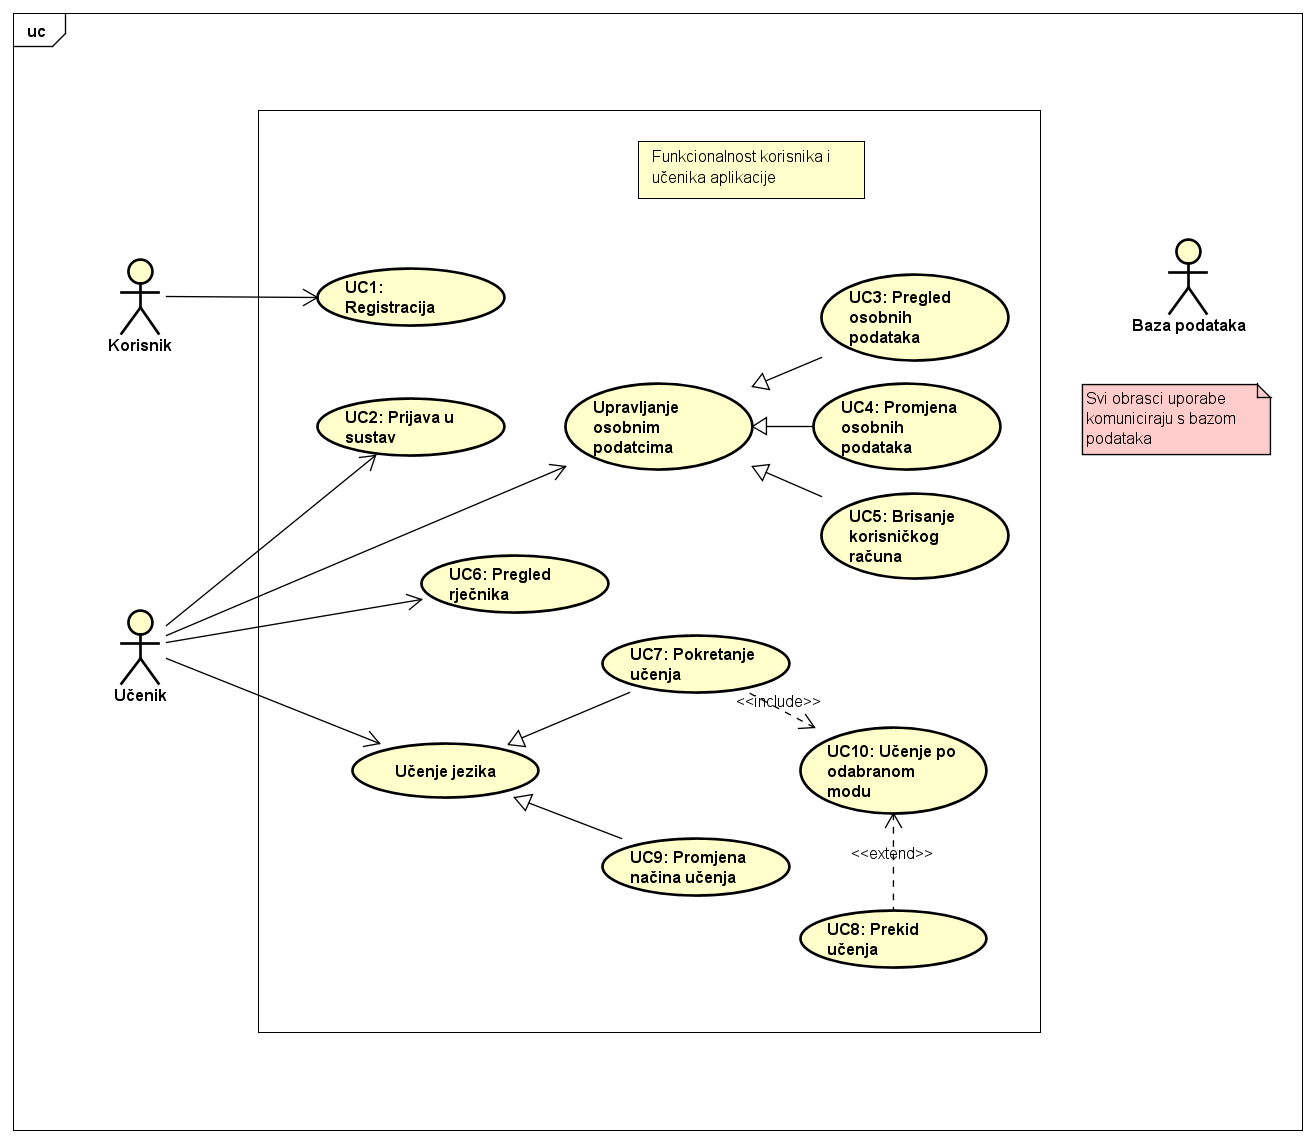
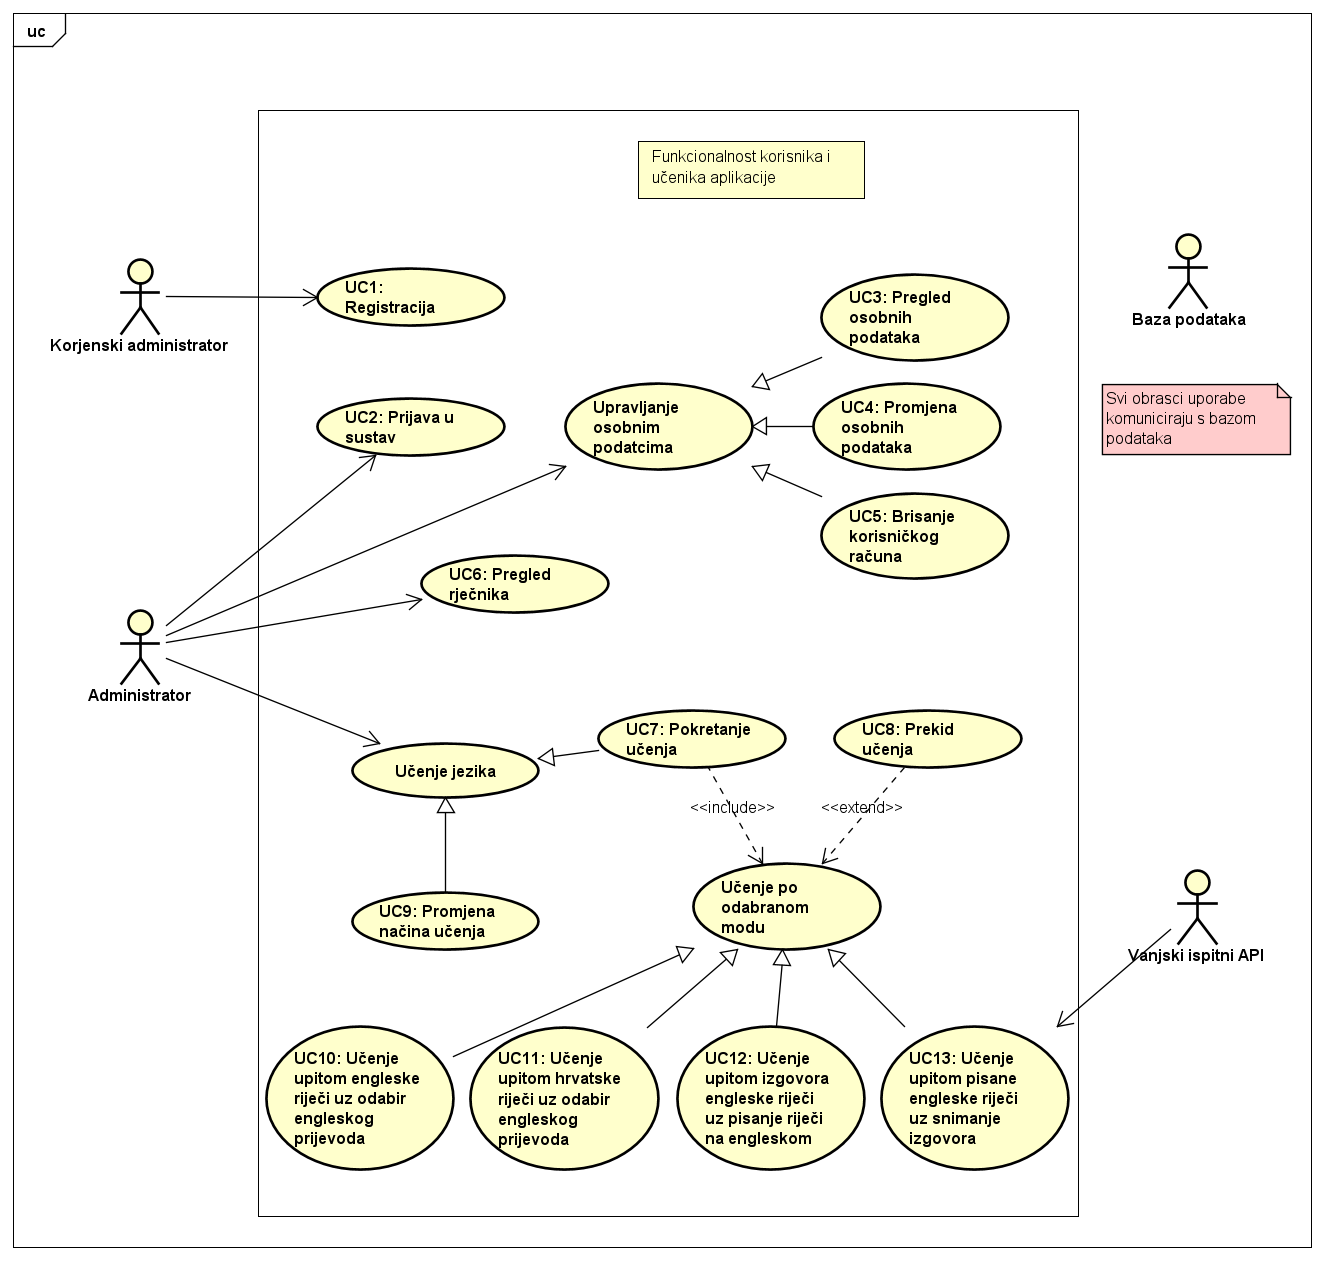
UC10 razdijeljen na 4 dijela, azurirani sati rada, azurirani dijagrami obrasca

diff --git a/Dokumentacija/Specifikacija_programske_potpore.tex b/Dokumentacija/Specifikacija_programske_potpore.tex
@@ -336,22 +336,84 @@
 						
 					\end{packed_item}
 
-					\noindent \underbar{\textbf{UC10 - Učenje po odabranom načinu učenja}}
+					\noindent \underbar{\textbf{UC10 -Učenje upitom engleske riječi uz odabir hrvatskog prijevoda}}
 					\begin{packed_item}
 	
 						\item \textbf{Glavni sudionik: }Učenik
-						\item  \textbf{Cilj:} Učiti jezik na način koji je učenik odabrao
+						\item  \textbf{Cilj:} Učiti prijevod engleske riječi na hrvatski jezik
 						\item  \textbf{Sudionici:} Baza podataka
 						\item  \textbf{Preduvjet:} Učenik je pokrenuo proces učenja
 						\item  \textbf{Opis osnovnog tijeka:}
 						
 						\item[] \begin{packed_enum}
 	
-							\item Učeniku se postavlja pitanje o odabranoj riječi ovisno o načinu učenja, podatcima o učenju i odabranom rječniku
-							\item Učeniku se nudi obrazac za odgovor na postavljeno pitanje
-							\item Učenik obrascem odgovara na postavljeno pitanje
-							\item Učenik potvrđuje svoj odgovor na obrascu
-							\item Baza podataka ažurira podatke učenja učenika određenim rječnikom, jezikom i načinom učenja
+							\item Učeniku se zadaje engleska riječ iz odabranog rječnika i ponuđeni odgovori istoznačne hrvatske riječi
+							\item Učenik odabire smatrani točan odgovor
+							\item Učenik potvrđuje svoj odgovor
+							\item Baza podataka ažurira podatke učenja učenika određenim rječnikom temeljeno na točnosti odgovora
+							\item Ponavlja se prvi korak sve dok učenik ne prekine učenje
+						\end{packed_enum}
+						
+					\end{packed_item}
+
+					\noindent \underbar{\textbf{UC11 - Učenje upitom hrvatske riječi uz odabir engleskog prijevoda}}
+					\begin{packed_item}
+	
+						\item \textbf{Glavni sudionik: }Učenik
+						\item  \textbf{Cilj:} Učiti prijevod hrvatske riječi na engleski jezik
+						\item  \textbf{Sudionici:} Baza podataka
+						\item  \textbf{Preduvjet:} Učenik je pokrenuo proces učenja
+						\item  \textbf{Opis osnovnog tijeka:}
+						
+						\item[] \begin{packed_enum}
+	
+							\item Učeniku se zadaje hrvatska riječ iz odabranog rječnika i ponuđeni odgovori istoznačne engleske riječi
+							\item Učenik odabire smatrani točan odgovor
+							\item Učenik potvrđuje svoj odgovor
+							\item Baza podataka ažurira podatke učenja učenika određenim rječnikom temeljeno na točnosti odgovora
+							\item Ponavlja se prvi korak sve dok učenik ne prekine učenje
+						\end{packed_enum}
+						
+					\end{packed_item}
+
+					\noindent \underbar{\textbf{UC12 - Učenje upitom izgovora engleske riječi uz pisanje riječi na engleskom}}
+					\begin{packed_item}
+	
+						\item \textbf{Glavni sudionik: }Učenik
+						\item  \textbf{Cilj:} Učiti točno pisanje engleskih riječi na temelju izgovora
+						\item  \textbf{Sudionici:} Baza podataka
+						\item  \textbf{Preduvjet:} Učenik je pokrenuo proces učenja
+						\item  \textbf{Opis osnovnog tijeka:}
+						
+						\item[] \begin{packed_enum}
+	
+							\item Učeniku se zadaje glasovni zapis engleske riječi
+							\item Učenik na obrazac upisuje izgovorenu riječ u tekstualnom obliku
+							\item Učenik potvrđuje svoj odgovor
+							\item Baza podataka ažurira podatke učenja učenika određenim rječnikom temeljeno na točnosti odgovora
+							\item Ponavlja se prvi korak sve dok učenik ne prekine učenje
+						\end{packed_enum}
+						
+					\end{packed_item}
+
+					\noindent \underbar{\textbf{UC13 - Učenje upitom pisane engleske riječi uz snimanje izgovora}}
+					\begin{packed_item}
+	
+						\item \textbf{Glavni sudionik: }Učenik
+						\item  \textbf{Cilj:} Učiti izgovor engleskih riječi na temelju tekstualnog oblika riječi
+						\item  \textbf{Sudionici:} Baza podataka, Vanjski ispitni API
+						\item  \textbf{Preduvjet:} Učenik je pokrenuo proces učenja
+						\item  \textbf{Opis osnovnog tijeka:}
+						
+						\item[] \begin{packed_enum}
+	
+							\item Učeniku se zadaje tekstualni zapis engleske riječi
+							\item Učenik odabire opciju za snimanje glasa
+							\item Učenik u mikrofon izgovara zadanu riječ
+							\item Učenik odabire opciju za prestanak snimanja glasa
+							\item Učenik potvrđuje svoj odgovor
+							\item Vanjski ispitni API ocjenjuje točnost izgovora riječi
+							\item Baza podataka ažurira podatke učenja učenika određenim rječnikom temeljeno na točnosti odgovora
 							\item Ponavlja se prvi korak sve dok učenik ne prekine učenje
 						\end{packed_enum}
 
@@ -359,17 +421,18 @@
 						
 						\item[] \begin{packed_item}
 	
-							\item[5.a] Nije moguće spajanje na bazu podataka
+							\item[2.a] Učenik nema detektirani mikrofon
 							\item[] \begin{packed_enum}
 								
-								\item Učenik dobiva informaciju o nedostupnosti baze podataka i prekida se učenje
+								\item Sustav onemogućuje opciju snimanja glasa
+								\item Sustav obavještava učenika nemogućnost snimanja glasa
 								
 							\end{packed_enum}
 						\end{packed_item}
 						
 					\end{packed_item}
 
-					\noindent \underbar{\textbf{UC11 - Dodavanje administratora}}
+					\noindent \underbar{\textbf{UC14 - Dodavanje administratora}}
 					\begin{packed_item}
 	
 						\item \textbf{Glavni sudionik: }Korijenski administrator
@@ -400,7 +463,7 @@
 						
 					\end{packed_item}
 
-					\noindent \underbar{\textbf{UC12 - Stvori rječnik}}
+					\noindent \underbar{\textbf{UC15 - Stvori rječnik}}
 					\begin{packed_item}
 	
 						\item \textbf{Glavni sudionik: }Administrator
@@ -418,7 +481,7 @@
 						
 					\end{packed_item}
 
-					\noindent \underbar{\textbf{UC13 - Dodaj riječ}}
+					\noindent \underbar{\textbf{UC16 - Dodaj riječ}}
 					\begin{packed_item}
 	
 						\item \textbf{Glavni sudionik: }Administrator
@@ -457,7 +520,7 @@
 						
 					\end{packed_item}
 
-					\noindent \underbar{\textbf{UC14 - Ukloni riječ}}
+					\noindent \underbar{\textbf{UC17 - Ukloni riječ}}
 					\begin{packed_item}
 	
 						\item \textbf{Glavni sudionik: }Administrator
@@ -489,7 +552,7 @@
 						
 					\end{packed_item}
 
-					\noindent \underbar{\textbf{UC15 - Izmijeni riječ}}
+					\noindent \underbar{\textbf{UC18 - Izmijeni riječ}}
 					\begin{packed_item}
 	
 						\item \textbf{Glavni sudionik: }Administrator

diff --git a/Dokumentacija/Dodatak.tex b/Dokumentacija/Dodatak.tex
@@ -44,7 +44,7 @@
 				
 				Funkcionalni zahtjevi       & 1 &  &  &  &  &  &  \\ 
 				Opis pojedinih obrazaca 	& 1 &  &  & 3 & 1 &  &  \\ 
-				Dijagram obrazaca 			&  &  &  &  & 2 &  &  \\ 
+				Dijagram obrazaca 			&  &  &  &  & 3 &  &  \\ 
 				Sekvencijski dijagrami 		&  &  &  &  &  &  &  \\ 
 				Opis ostalih zahtjeva 		&  &  &  &  &  &  &  \\ 
 
